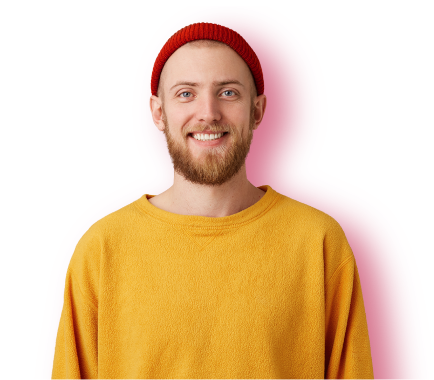
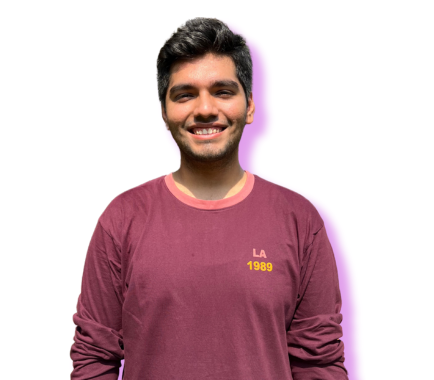
develop hero section

diff --git a/src/components/Hero/Hero.jsx b/src/components/Hero/Hero.jsx
@@ -1,0 +1,72 @@
+import React from 'react';
+import css from './Hero.module.scss';
+import { BiMapPin, BiEnvelope } from 'react-icons/bi';
+import { motion } from 'framer-motion';
+import { fadeIn, slideIn, staggerContainer } from '../../utils/motion';
+
+const Hero = () => {
+    return (
+        <section className={`paddings ${css.wrapper}`}>
+            <motion.div
+                variants={staggerContainer}
+                initial="hidden"
+                whileInView="show"
+                viewport={{ once: false, amount: 0.25 }}
+                className={`innerWidth ${css.container}`}>
+                <div className={css.upperElements}>
+                    <motion.span
+                        variants={fadeIn("right", "tween", 0.2, 1)}
+                        className='primaryText'>
+                        Hey there, <br /> I am <span className={css.highlight}> Piyush </span>
+                    </motion.span>
+
+                    <motion.span
+                        variants={fadeIn("left", "tween", 0.4, 1)}
+                        className='secondaryText'>
+                        <div className={css.highlight}> I am a Web Developer</div>
+                        <div>&amp; an AI enthusiast.</div>
+                    </motion.span>
+                </div>
+
+                <motion.div
+                    variants={fadeIn("up", "tween", 0.3, 1)}
+                    className={css.person}>
+                    <motion.img src="/person2.png" variants={slideIn("up", "tween", 0.5, 1)} alt="Piyush Chugeja" />
+                </motion.div>
+
+                <div className={css.lowerElements}>
+                    <motion.div 
+                    variants={fadeIn("right", "tween", 0.2, 1)}
+                    className={css.location}>
+                        <div className="primaryText">
+                            <BiMapPin />
+                        </div>
+                        <div className="secondaryText">
+                            <div>Mumbai,</div>
+                            <div>India</div>
+                        </div>
+                    </motion.div>
+                    <motion.div 
+                    variants={fadeIn("left", "tween", 0.2, 1)}
+                    className={css.emailContainer}>
+                        <div className="primaryText">
+                            <BiEnvelope />
+                        </div>
+                        <div className="secondaryText">
+                            <div><a className={css.email} href="mailto:piyushchugeja@gmail.com">
+                                piyushchugeja@gmail.com
+                            </a>
+                            </div>
+                            <div><a className={css.email} href="mailto:chugejapiyush@gmail.com">
+                                chugejapiyush@gmail.com
+                            </a>
+                            </div>
+                        </div>
+                    </motion.div>
+                </div>
+            </motion.div>
+        </section>
+    )
+};
+
+export default Hero;

diff --git a/src/components/Hero/Hero.module.scss b/src/components/Hero/Hero.module.scss
@@ -1,0 +1,98 @@
+@import '../../styles//constants.scss';
+
+.wrapper {
+    overflow: hidden;
+
+    .container {
+        position: relative;
+        z-index: 1;
+
+        .upperElements {
+
+            @media (max-width: $sm) {
+                justify-content: center;
+                text-align: center;
+                gap: 2rem;
+            }
+
+            display: flex;
+            align-items: center;
+            justify-content: space-between;
+            flex-wrap: wrap;
+
+            .highlight {
+                line-height: 25px;
+            }
+
+        }
+
+        .person {
+
+            @media (max-width: $sm), (max-width: $md) {
+                position: relative;
+                left: 0;
+                background-size: 20rem;
+                display: flex;
+                align-items: center;
+                justify-content: center;
+                background-position: bottom;
+            }
+
+            position: absolute;
+            bottom: -2rem;
+            margin: auto;
+            background-image: url('../splash.png');
+            background-repeat: no-repeat;
+            background-size: 23rem;
+            left: 33%;
+
+            img {
+                @media  (max-width: $sm) {
+                    width: 23rem;
+                }
+            }
+
+        }
+
+        .lowerElements {
+
+            @media (max-width: $sm), (max-width: $md) {
+                margin-top: 4rem;
+                justify-content: center;
+                text-align: center;
+                gap: 2rem;
+            }
+
+            margin-top: 12rem;
+            display: flex;
+            align-items: center;
+            justify-content: space-between;
+            flex-wrap: wrap;
+
+            .location {
+                display: flex;
+                align-items: center;
+                gap: 1rem;
+
+                >:nth-child(2) {
+                    line-height: 25px;
+                }
+            }
+
+            .emailContainer {
+                display: flex;
+                align-items: center;
+                gap: 1rem;
+
+                >:nth-child(2) {
+                    line-height: 25px;
+                }
+                .email {
+                    color: orange;
+                }
+
+            }
+        }
+
+    }
+}

diff --git a/src/App.jsx b/src/App.jsx
@@ -1,9 +1,11 @@
 import Header from "./components/Header/Header";
+import Hero from "./components/Hero/Hero";
 import css from './styles/app.module.scss';
 const App = () => {
 	return (
 		<div className={`bg-primary ${css.container}`}>
 			<Header />
+			<Hero />
 		</div>
 	)
 };
